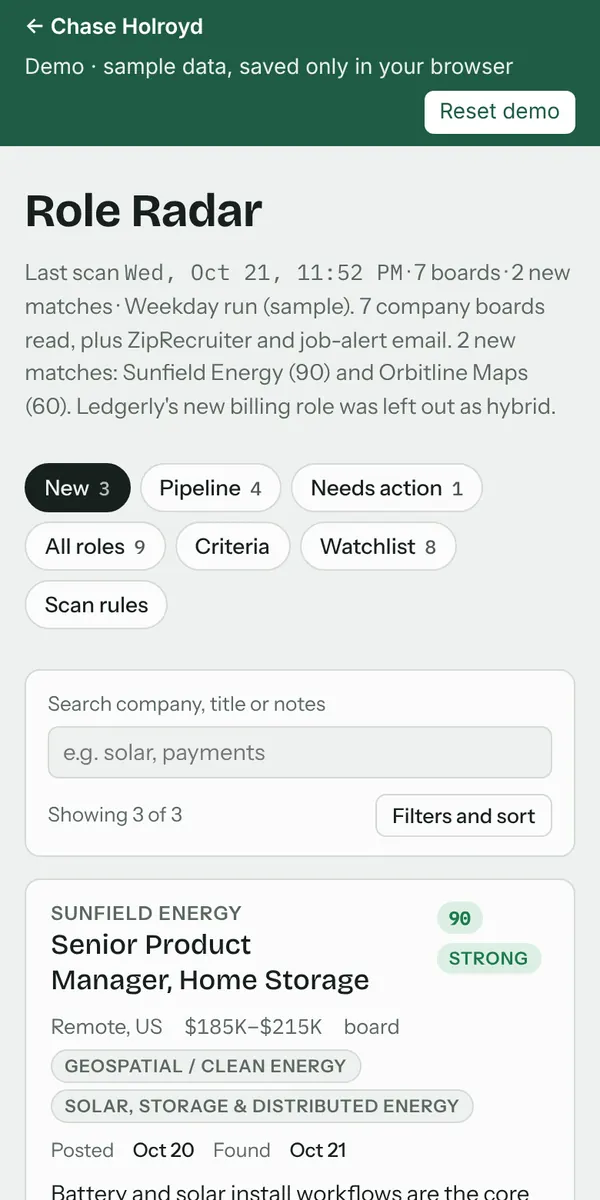
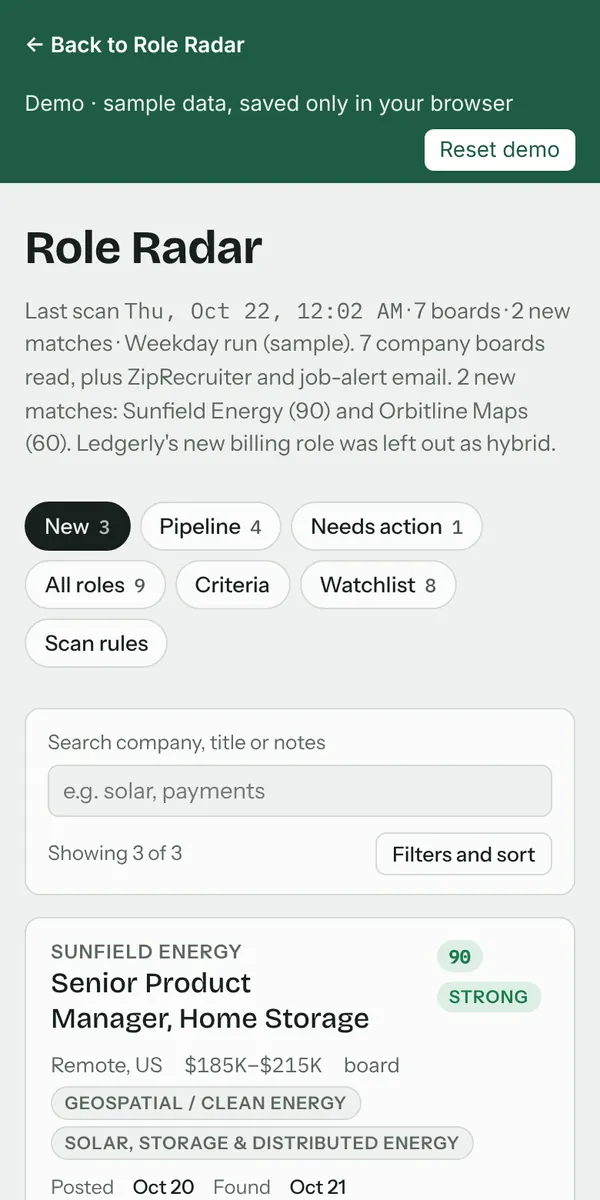
Round 2: 2x2 facts at 900-1099px, re-shot Role Radar, copy and skip-link fixes
Claude-Session: https://claude.ai/code/session_011au172tDRCb1uXjCPLZopx

Changed region(s): [[0.0, 0.0, 1.0, 0.555], [0.06, 0.5858, 0.96, 1.0]]

diff --git a/role-radar.html b/role-radar.html
@@ -34,7 +34,7 @@
 <p class="lede">Most of a job search is sifting. I built a radar that reads the boards every weekday and tells me, with reasons, which roles are worth my time, so I can say no faster.</p>
 <div class="cta"><a class="btn primary" href="demo/role-radar/">Try the live demo</a><a class="btn" href="https://github.com/holroydchase-afk/role-radar">View on GitHub</a></div>
 </div><figure class="shot"><img src="assets/shots/role-radar-phone.webp" width="300" height="600" alt="Role Radar on a phone, sample data: the New tab with a Senior Product Manager role scored 90, Strong, with the reason it fits." fetchpriority="high" decoding="async"><figcaption>The demo reads 7 sample boards. The real radar watches about 110.</figcaption></figure>
-<div class="facts"><div class="fact"><b>~110</b><span>company job boards watched</span></div><div class="fact"><b>4</b><span>sources merged and de-duplicated</span></div><div class="fact"><b>0–100</b><span>fit score, each with a one-line reason</span></div><div class="fact"><b>By hand</b><span>every application is still my call</span></div></div></div>
+<div class="facts"><div class="fact"><b>~110</b><span>company job boards watched</span></div><div class="fact"><b>4</b><span>sources merged, duplicates removed</span></div><div class="fact"><b>0–100</b><span>fit score, each with a one-line reason</span></div><div class="fact"><b>By hand</b><span>every application is still my call</span></div></div></div>
 <div class="read"><h2>How it works</h2><ul class="clean"><li>A scheduled agent scans company boards (Greenhouse, Ashby, Lever), ZipRecruiter, Himalayas and job-alert emails, and merges duplicates across sources.</li><li>It scores each role 0–100 against criteria I edit in one file (title, remote, comp floor, sectors, culture signals) and gives a one-line reason, so I can check its judgement instead of trusting a number.</li><li>One tracker holds every role, and the pipeline updates itself when an application is confirmed or closed.</li></ul><h2>Product decisions</h2><ul class="clean"><li><b>Explainable over clever.</b> Every score shows its reasons, and the criteria are plain text, so a wrong call is a one-line fix.</li><li><b>Precision, not volume.</b> The goal is fewer, better applications. The measure is how many top-scored roles turn into real conversations.</li><li><b>The human stays in the loop.</b> The radar finds and ranks. Reading the posting and applying stay with me.</li><li><b>One tracker, not three.</b> Status lived in three places and drifted, so I retired the old pipeline.</li><li><b>Cost-aware by design.</b> Big boards run three days a week, and the scan stops paging as soon as results stop being new.</li></ul><h2>Stack</h2><p>A single-page app on Claude with its own saved database, a scheduled agent that runs each weekday, and connectors for ZipRecruiter and email.</p><p class="note">The demo uses made-up jobs and companies, never real applications. Changes you make stay in your browser.</p>
 <p class="back"><a href="index.html">← All work</a></p></div>
 </main>

diff --git a/assets/site.css b/assets/site.css
@@ -80,8 +80,9 @@ footer.site .wrap{display:flex;justify-content:space-between;gap:12px;flex-wrap:
 @media(min-width:900px){.hero.has-shot{display:grid;grid-template-columns:minmax(0,1fr) 300px;grid-template-areas:"text shot" "facts shot";grid-template-rows:auto 1fr;column-gap:56px;align-items:start}
   .hero.has-shot>.read{grid-area:text}.hero.has-shot>.facts{grid-area:facts}
   .hero.has-shot .shot{grid-area:shot;margin:0}.hero.has-shot .shot img{width:300px}}
+@media(min-width:900px) and (max-width:1099px){.hero.has-shot>.facts{grid-template-columns:repeat(2,1fr)}}
 /* UX-13: 44px tap targets for the name, nav, footer, back and skip links */
 header.site .mark,nav.top a,footer.site a,.back a{display:inline-flex;align-items:center;min-height:44px}
-.skip:focus{min-height:44px;display:inline-flex;align-items:center}
+.skip{min-height:44px;display:inline-flex;align-items:center}
 footer.site .wrap{align-items:center}
 .back{margin-top:40px}

diff --git a/tools/build.py b/tools/build.py
@@ -168,7 +168,7 @@ role_radar = product(
     "AI tool · beta",
     "Role Radar",
     "Most of a job search is sifting. I built a radar that reads the boards every weekday and tells me, with reasons, which roles are worth my time, so I can say no faster.",
-    [("~110", "company job boards watched"), ("4", "sources merged and de-duplicated"), ("0–100", "fit score, each with a one-line reason"),
+    [("~110", "company job boards watched"), ("4", "sources merged, duplicates removed"), ("0–100", "fit score, each with a one-line reason"),
      ("By hand", "every application is still my call")],
     [
         ("How it works", '<ul class="clean"><li>A scheduled agent scans company boards (Greenhouse, Ashby, Lever), ZipRecruiter, Himalayas and job-alert emails, and merges duplicates across sources.</li>'

diff --git a/HANDOFF.md b/HANDOFF.md
@@ -38,6 +38,7 @@ ux-reviewer and qa-tdd reviewed the site and pm-tools; staff-pm ranked it: `docs
 - Done in this PR: WEB-M4.1 deploy only site files (`_site/` allowlist in pages.yml) and no claude.ai links in the repo (they remain in git history; no rewrite), M4.2 hero says "Most recently Staff PM at Patter AI", M4.3 "View resume" on the first screen, M4.4 How I work and family app copy, M4.5 styled 404 on nested paths, M4.6 `site-checks.yml` CI.
 - Studio agents synced into `.claude/agents/` from studio-agents (includes the upgraded ux-reviewer with the visual pass and showcase review, studio-agents draft PR #6 or later); re-sync with its `scripts/sync.sh`.
 - Overnight Oct 22 (draft PR, branch `claude/project-thread-hsgkpq-m47`): WEB-M4.7 one 390px phone screenshot under the lede on Role Radar, ccwatts and Energy Scanner (`assets/shots/*.webp`, 26–46 KB, sample data only, Role Radar from its public view; set with `product(shot=...)`). UX-13 44px tap targets on nav, footer and back links. UX-14 "Claude artifact" jargon on Role Radar's stack line. UX-15 CTAs "Try the live demo / playground / app", plus a GitHub link on Role Radar. UX-12 the Role Radar demo's back link opens role-radar.html. To re-shoot: Playwright at 390x844 with deviceScaleFactor 2 (Energy Scanner with the clock set to 7:42 PM and three steps ticked), crop to 780x1560, then save as 600x1200 WebP q78.
+- Round 2 (UXR2-1..3, QAR2-1) done. Nothing at P2 or above is left on the product pages; see the review doc.
 - Round 1 review fixes (caption, desktop two-column hero, re-crop, 44px name/skip/demo back link, footer title) are logged in the review doc's "Overnight rounds" section.
 - Not here: "Built with" and "calm by default" aren't on this site (pm-tools copy). "anxiety-less" sits in How I work, which belongs to WEB-M5 PR #12.
 - Decision for Chase: WEB-M4.8, add "Independent product work, Jan 2026 – present" to the resume page? It mirrors your real resume, so it's your call.

diff --git a/docs/reviews/2026-10-22-recruiter-ready.md b/docs/reviews/2026-10-22-recruiter-ready.md
@@ -44,3 +44,14 @@ Scope: role-radar, ccwatts, energy-scanner and family-photos pages, shared CSS a
 | QAR1-3 | P3 | Role Radar demo loads js-yaml from a CDN | Role Radar intake (its demo moves to its own repo) |
 | QAR1-4 | note | ?full hides in the browser only; seed data ships to everyone | fine while seed data stays made up |
 Notes for WEB-M5 (home): career cards and links, the dated "Since Jan 2026" heading, and "every demo runs on sample data" not being true of the family app or Energy Scanner. #12 covers the first two; the third is a #12 copy fix.
+
+### Round 2: ux-reviewer and qa-tdd (QA in its own copy)
+All round 1 fixes held. QA: CI steps, a 44-load crawl, alt text and aspect ratios, 44px targets, one h1 per page, caption contrast (5.75:1 light, 7.33:1 dark), the demo bar and the privacy grep all passed, identical across 3 repeats.
+| ID | Pri | Finding | Status |
+|---|---|---|---|
+| UXR2-1 | P2 | At 900–1099px the fourth fact wrapped alone | done: 2x2 facts in that range |
+| UXR2-2 | P3 | Role Radar shot still showed the old demo bar | done: re-shot |
+| UXR2-3 | P3 | "de-duplicated" broke at the hyphen | done: "sources merged, duplicates removed" |
+| QAR2-1 | P3 | Skip link 43px while hidden | done: sizing on the base rule |
+| QAR2-2 | P3 | Public demo HTML still contains the hidden Apply/intake text | accepted; goes away when Role Radar hosts its own demo |
+Result: nothing at P2 or above is left in scope. The loop stops here.
